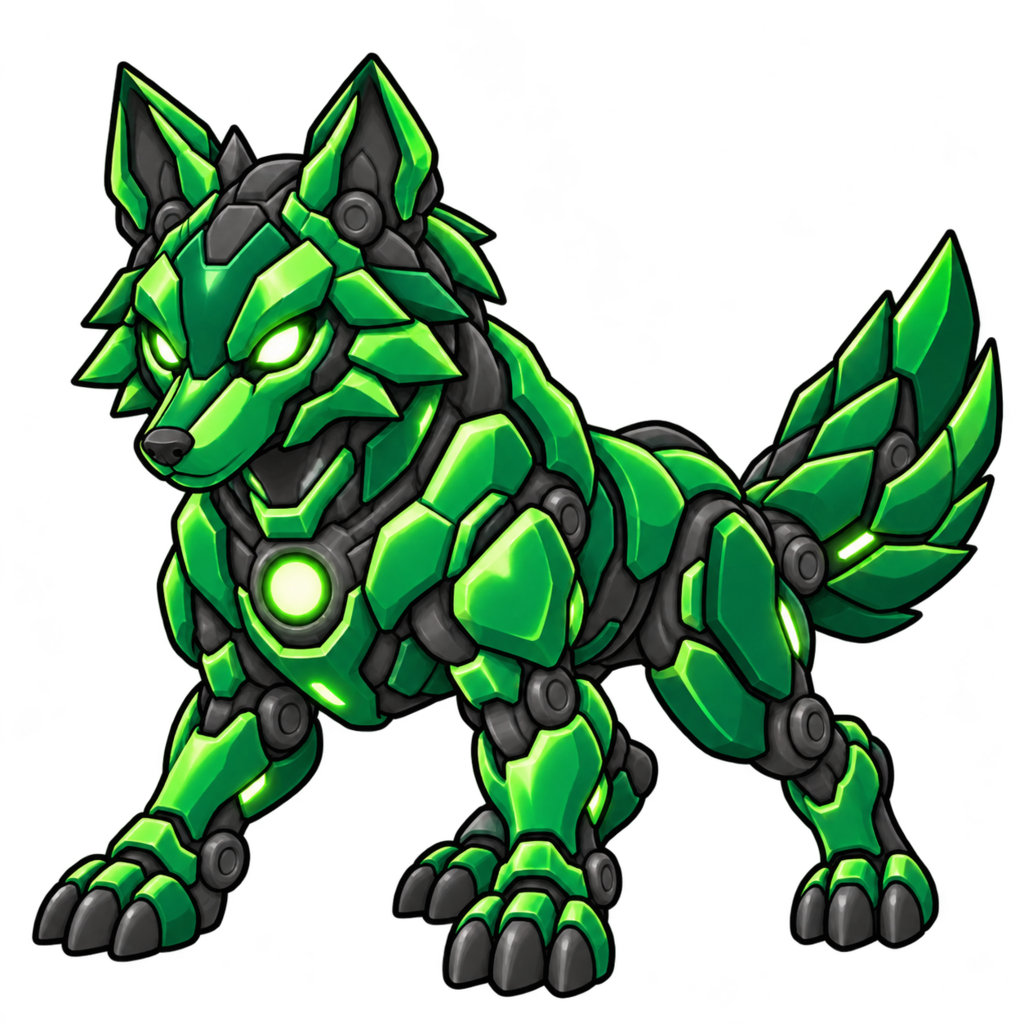
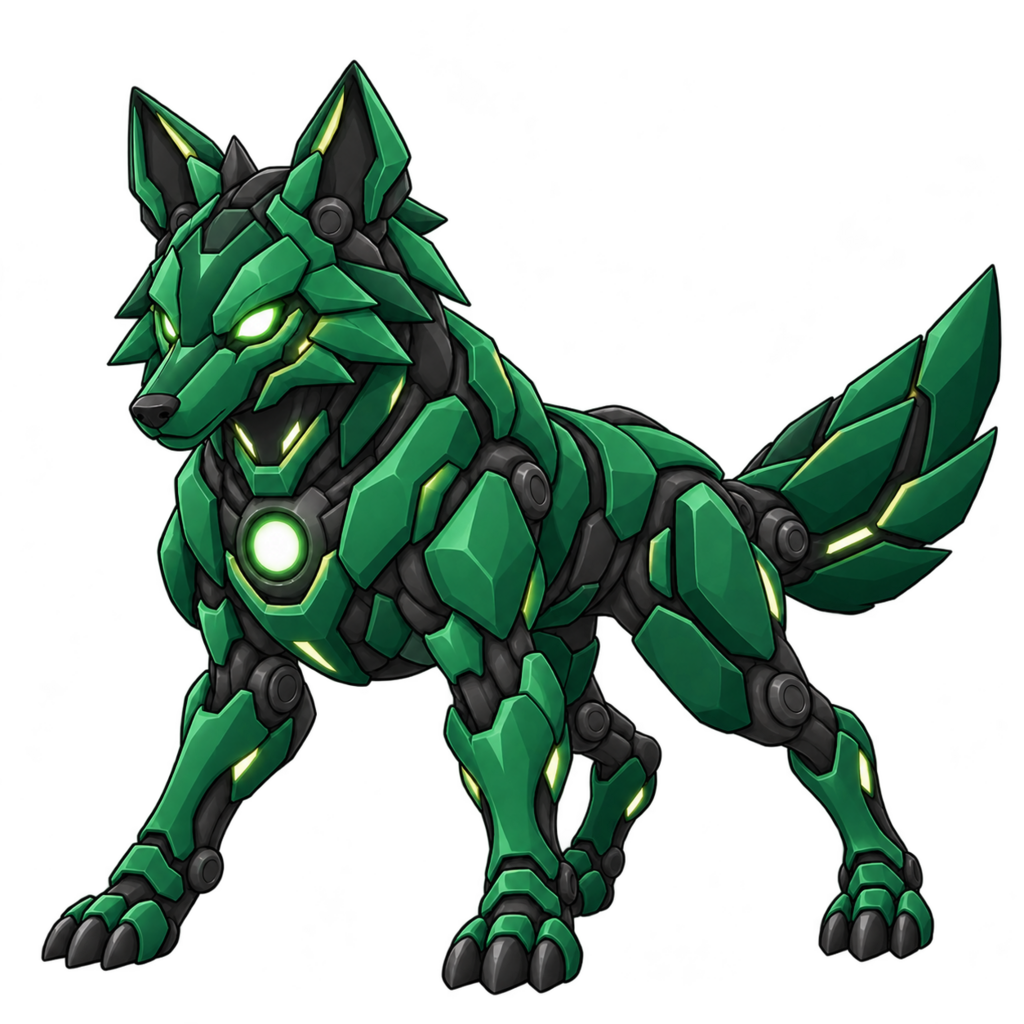
art(units): refine VOLX combat portraits
Use more athletic proportions, restrained attribute colors, matte armor and cleaner large forms so VOLX reads clearly against the dark battle UI at small sizes.

diff --git a/Assets/CoreBeasts/Art/Units/Volx/Combat/README.md b/Assets/CoreBeasts/Art/Units/Volx/Combat/README.md
@@ -15,5 +15,7 @@
 - 96〜256pxで顔、コア、脚、尾を識別できる太い輪郭と大きな色面にする
 - 背景、影、文字、UI枠を含めない
 - 左右反転しても破綻しない構図にする
+- 玩具的な強い光沢を避け、暗いバトルUIに合うマットな装甲と抑えた彩度にする
+- 頭身を精悍にし、頭・胸部・前脚・後脚・尾を大きな形として読む
 
-画像生成時の基準プロンプトは、既存VOLXを「約40%少ない内部ディテール、太い外周、広い装甲面、少ない発光部」に再構成し、同一原画を属性色だけ変更する内容です。
+画像生成時の基準プロンプトは、既存VOLXを「約40%少ない内部ディテール、太い外周、広い装甲面、少ない発光部」に再構成し、同一原画を属性色だけ変更する内容です。改良版では目と胸部コア以外の発光を抑え、赤・緑・青を深い色域に統一しています。
